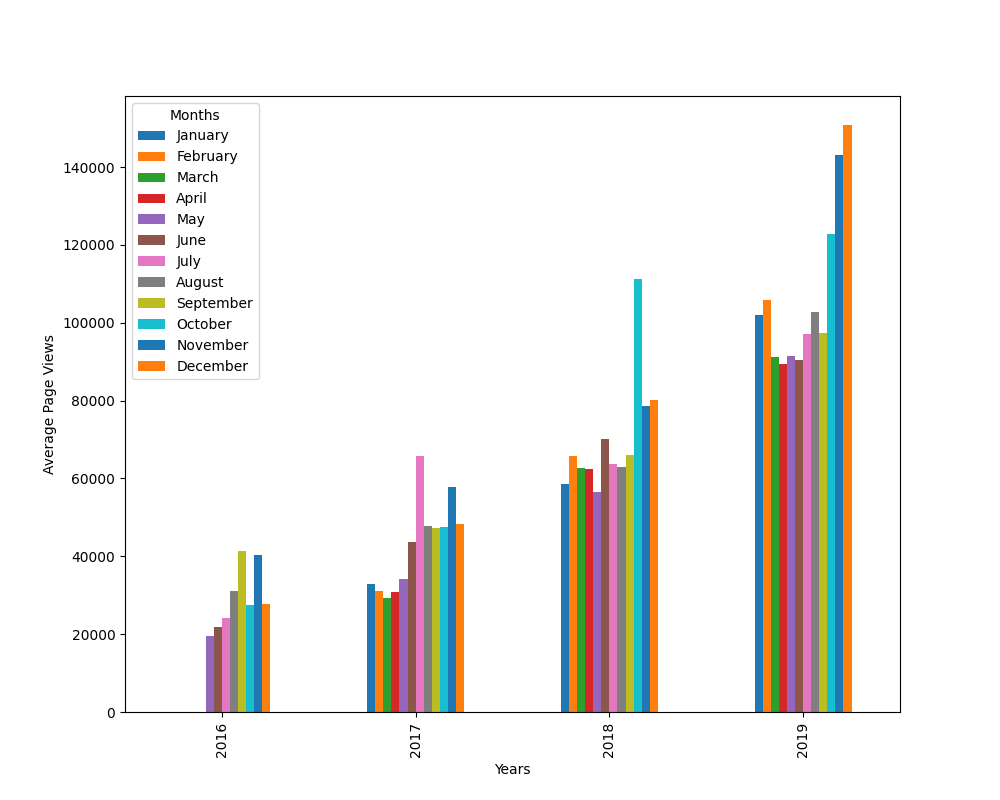
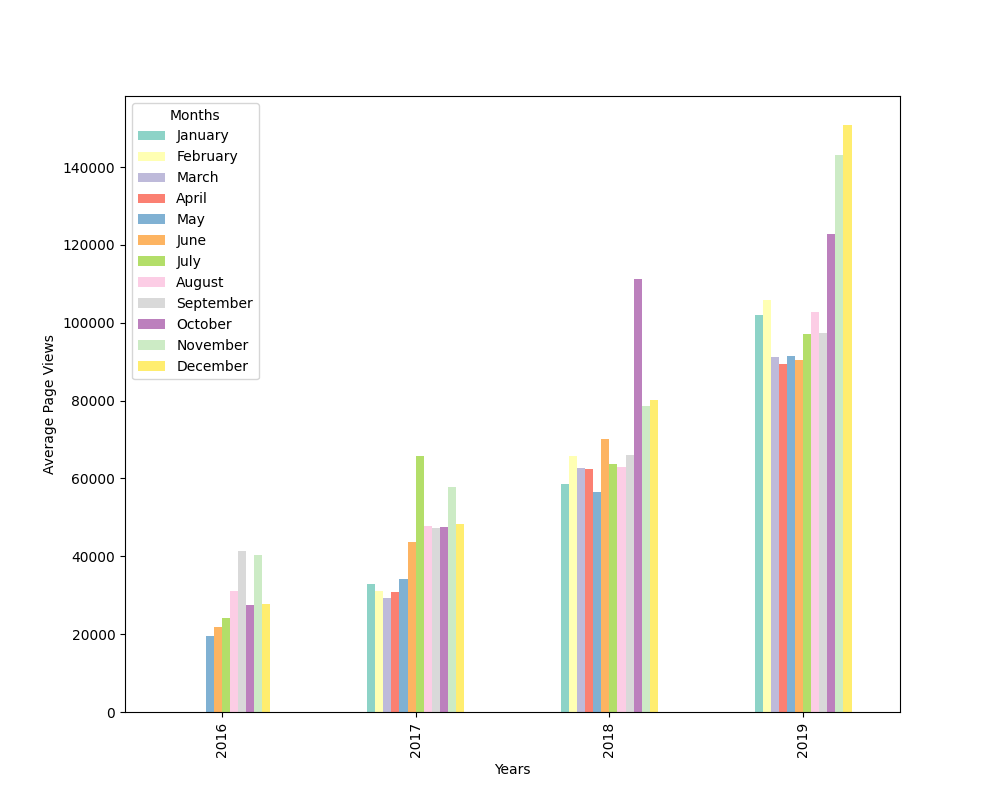
feat: "arruma cores dos graficos"

diff --git a/time_series_visualizer.py b/time_series_visualizer.py
@@ -1,3 +1,4 @@
+# Chama as bibliotecas
 import matplotlib.pyplot as plt
 import pandas as pd
 import seaborn as sns
@@ -5,6 +6,7 @@ from pandas.plotting import register_matplotlib_converters
 register_matplotlib_converters()
 
 # Import data (Make sure to parse dates. Consider setting index column to 'date'.)
+#Importação dos dados csv
 df = pd.read_csv(
     "fcc-forum-pageviews.csv",
     parse_dates=["date"],
@@ -12,6 +14,7 @@ df = pd.read_csv(
 )
 
 # Clean data
+# Limpeza dos dados
 low = df["value"].quantile(0.025)
 high = df["value"].quantile(0.975)
 df = df[(df["value"] >= low) & (df["value"] <= high)].copy()
@@ -21,12 +24,13 @@ def draw_line_plot():
     # Draw line plot
     data = df.copy()
     fig, ax = plt.subplots(figsize=(15, 5))
-    ax.plot(data.index, data["value"])
+    ax.plot(data.index, data["value"], color="red")
     ax.set_title("Daily freeCodeCamp Forum Page Views 5/2016-12/2019")
     ax.set_xlabel("Date")
     ax.set_ylabel("Page Views")
 
     # Save image and return fig (don't change this part)
+    # chama as fotos
     fig.savefig('line_plot.png')
     return fig
 
@@ -40,16 +44,16 @@ def draw_bar_plot():
     # média diária por mês/ano
     table = df_bar.pivot_table(values="value", index="year", columns="month", aggfunc="mean")
 
-    # ordenar meses 1..12 e renomear colunas para nomes abreviados
-    month_names = [
+    # Chama os meses em ordem
+    months = [
           "January","February","March","April","May","June",
     "July","August","September","October","November","December"
 ]
     table = table.reindex(columns=range(1, 13))
-    table.columns = month_names
+    table.columns = months
 
     # Draw bar plot
-    ax = table.plot(kind="bar", figsize=(10, 8), legend=True)
+    ax = table.plot(kind="bar", figsize=(10, 8), legend=True, colormap="Set3")
     ax.set_xlabel("Years")
     ax.set_ylabel("Average Page Views")
     ax.legend(title="Months")
@@ -68,19 +72,22 @@ def draw_box_plot():
     df_box['month'] = [d.strftime('%b') for d in df_box.date]
 
     # Draw box plots (using Seaborn)
-    # ordenar meses Jan..Dec
-    month_order = ["Jan","Feb","Mar","Apr","May","Jun","Jul","Aug","Sep","Oct","Nov","Dec"]
+    # ordem dos meses
+    month_order = ["Jan","Feb","Mar","Apr","May",
+                   "Jun","Jul","Aug","Sep","Oct",
+                   "Nov","Dec"
+                   ]
 
     fig, (ax1, ax2) = plt.subplots(1, 2, figsize=(15, 6))
 
-    # boxplot por ano
-    sns.boxplot(data=df_box, x="year", y="value", ax=ax1)
+    # boxplot por ano (ano x valor)
+    sns.boxplot(data=df_box, x="year", y="value", ax=ax1, color="green")
     ax1.set_title("Year-wise Box Plot (Trend)")
     ax1.set_xlabel("Year")
     ax1.set_ylabel("Page Views")
 
-    # boxplot por mês (todas as anos juntos)
-    sns.boxplot(data=df_box, x="month", y="value", order=month_order, ax=ax2)
+    # boxplot por mês (todas os anos juntos)
+    sns.boxplot(data=df_box, x="month", y="value", order=month_order, ax=ax2, color ="pink")
     ax2.set_title("Month-wise Box Plot (Seasonality)")
     ax2.set_xlabel("Month")
     ax2.set_ylabel("Page Views")
